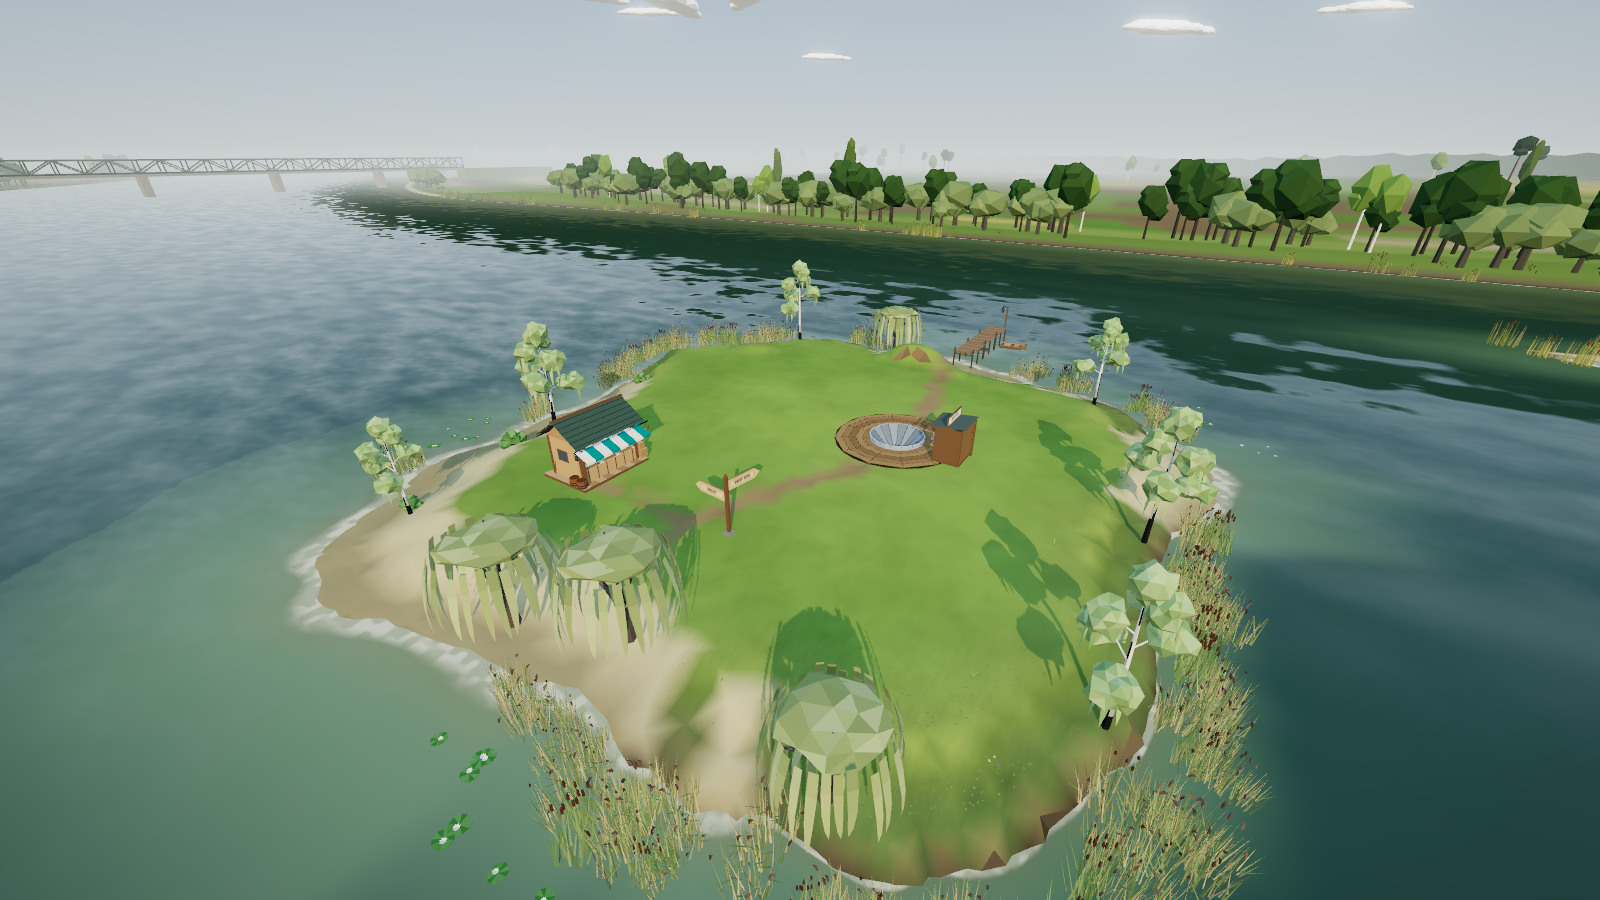
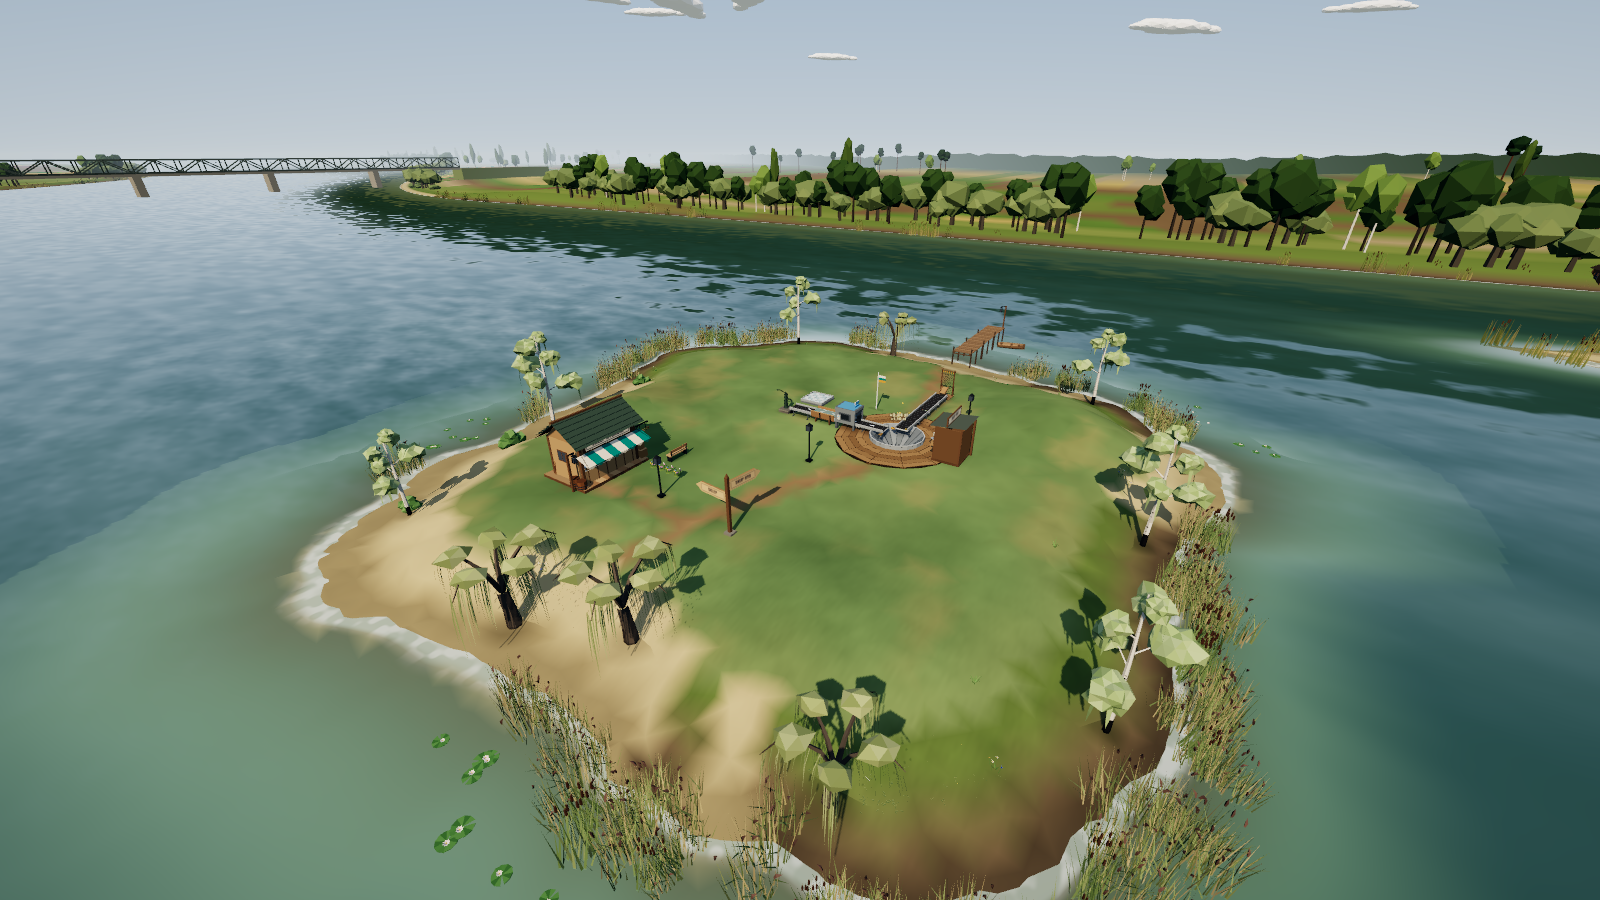
Fix rain streaks being back-face culled, hide clouds in fog, demo farm for captures

diff --git a/src/world/weatherfx.js b/src/world/weatherfx.js
@@ -22,9 +22,9 @@ void main() {
   vec3 view = normalize(cameraPosition - p);
   vec3 side = normalize(cross(uDir, view));
   float len = aOff.w;
-  vec3 wp = p + side * position.x * 0.03 - uDir * position.y * len;
+  vec3 wp = p + side * position.x * 0.02 - uDir * position.y * len;
   float d = distance(wp, cameraPosition);
-  vA = smoothstep(0.6, 2.0, d) * (1.0 - smoothstep(14.0, 26.0, d));
+  vA = smoothstep(1.2, 3.0, d) * (1.0 - smoothstep(14.0, 26.0, d));
   vT = position.y;
   gl_Position = projectionMatrix * viewMatrix * vec4(wp, 1.0);
 }`;
@@ -35,7 +35,7 @@ uniform vec3 uCol;
 varying float vA;
 varying float vT;
 void main() {
-  gl_FragColor = vec4(uCol, 0.55 * uK * vA * (1.0 - vT * 0.65));
+  gl_FragColor = vec4(uCol, 0.42 * uK * vA * (1.0 - vT * 0.65));
 }`;
 
 export class WeatherFx {
@@ -52,7 +52,7 @@ export class WeatherFx {
     const slant = Math.tan((12 * Math.PI) / 180);
     this.rainMat = new THREE.ShaderMaterial({
       uniforms: { uT: { value: 0 }, uCam: { value: new THREE.Vector3() }, uK: { value: 0 }, uSpeed: { value: 14 }, uDir: { value: new THREE.Vector3(slant * 0.8, -1, slant * 0.6).normalize() }, uCol: { value: new THREE.Color('#c6ced6') } },
-      vertexShader: RAIN_V, fragmentShader: RAIN_F, transparent: true, depthWrite: false,
+      vertexShader: RAIN_V, fragmentShader: RAIN_F, transparent: true, depthWrite: false, side: THREE.DoubleSide,
     });
     this.rain = new THREE.Mesh(quad, this.rainMat);
     this.rain.frustumCulled = false;

diff --git a/Niepotrzebne/tools/farmdemo.js b/Niepotrzebne/tools/farmdemo.js
@@ -1,0 +1,24 @@
+(async () => {
+  const g = __rw;
+  const L = 1.6;
+  Object.assign(g.store.state.wh, { pompa: 3, siec: 2, tasma: 30, rynna: 4, myjnia: 2, lampa: 6, flaga: 2, lawka: 2, kwiaty: 6, lod: 2 });
+  const P = (id, t, x, z, ry, y = L) => g.store.place({ id, t, x, y, z, ry, rp: 0 });
+  await P('dA0', 'siec', 5, -12.5, Math.PI);
+  for (let k = 0; k < 4; k++) await P('dA' + (k + 1), 'tasma', 5, -10.7 + k * 2, Math.PI);
+  await P('dB0', 'pompa', -4.5, -3, -Math.PI / 2);
+  await P('dB1', 'tasma', -2.9, -3, -Math.PI / 2);
+  await P('dB2', 'rynna', -0.9, -3, -Math.PI / 2);
+  await P('dB3', 'myjnia', 1.1, -3, -Math.PI / 2);
+  await P('dB4', 'tasma', 3.1, -3, -Math.PI / 2);
+  await P('dL1', 'lampa', 1.5, 3.2, 0);
+  await P('dL2', 'lampa', -3.5, 11.8, 0);
+  await P('dL3', 'lampa', 8.6, -7.6, 0);
+  await P('dF1', 'flaga', 1.3, -7.2, 0);
+  await P('dW1', 'lawka', -6.2, 7.6, Math.PI / 2);
+  for (let k = 0; k < 4; k++) await P('dK' + k, 'kwiaty', -6.6 + k * 0.7, 9.4, 0);
+  await P('dI1', 'lod', -3.6, -6.2, 0);
+  window.__pumpN = 0;
+  clearInterval(window.__pumpT);
+  window.__pumpT = setInterval(() => { if (window.__pumpN++ < 200) g.authority.click('dB0'); }, 420);
+  return g.blocks.blocks.size;
+})()

diff --git a/src/world/sky.js b/src/world/sky.js
@@ -254,7 +254,7 @@ export class Sky {
       p.set(Math.cos(a) * c.d, c.y - grey * 40, Math.sin(a) * c.d);
       q.setFromAxisAngle(new THREE.Vector3(0, 1, 0), c.rot + a);
       const g = 1 + grey * 0.9;
-      const fade = Math.max(0.001, (1 - grey * 1.25) * clamp(dayK * 1.6 - 0.1, 0, 1));
+      const fade = Math.max(0.001, (1 - grey * 1.25) * (1 - clamp(w.fog * 1.5, 0, 1)) * clamp(dayK * 1.6 - 0.1, 0, 1));
       s.set(c.sc * g * 1.25 * fade, c.sc * (0.65 + grey * 0.3) * fade, c.sc * g * fade);
       cm.setMatrixAt(i, m.compose(p, q, s));
     }

diff --git a/Niepotrzebne/gauntlet/CRITIC.md b/Niepotrzebne/gauntlet/CRITIC.md
@@ -7,7 +7,7 @@ The game: a first-person co-op fish-farm tycoon in the browser (three.js). Playe
 Judge only what you see in the images. Do not look for or use outside reference images. Use your own knowledge of what shipped, polished games on Steam look like.
 
 Images (all are real captures of the current build):
-- Game captures: `Niepotrzebne/gauntlet/pack/a.png` to `g.png` (1600x900; menu aerial, first-person play with HUD, a fish under the cursor with its ID card, a held stack of fish, the shop screen, rain in the afternoon, a full-moon night).
+- Game captures: `Niepotrzebne/gauntlet/pack/a.png` to `g.png` (1600x900; menu aerial of a farm in progress, first-person play with HUD, a fish under the cursor with its ID card, a held stack of fish, the shop screen, rain, morning fog over the river).
 - Model sheets: `Niepotrzebne/models/shots/fish1.png`, `fish2.png`, `avatar.png`, `deco.png` (procedural models on a neutral background).
 
 Answer in Polish. Write the report to `Niepotrzebne/gauntlet/round{N}.md` (N is given in your task) with exactly these sections:
